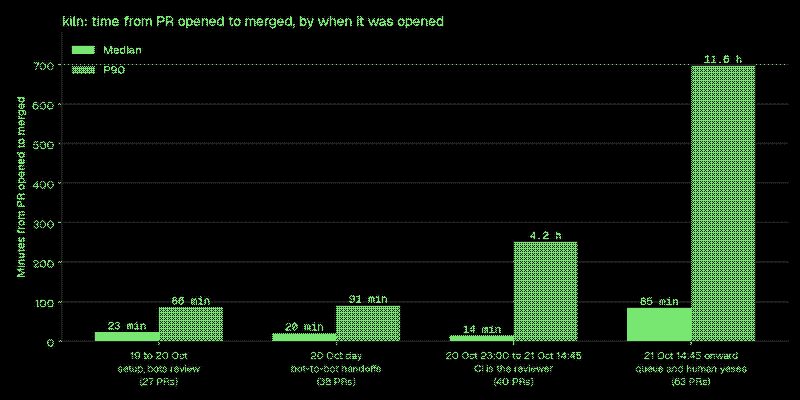
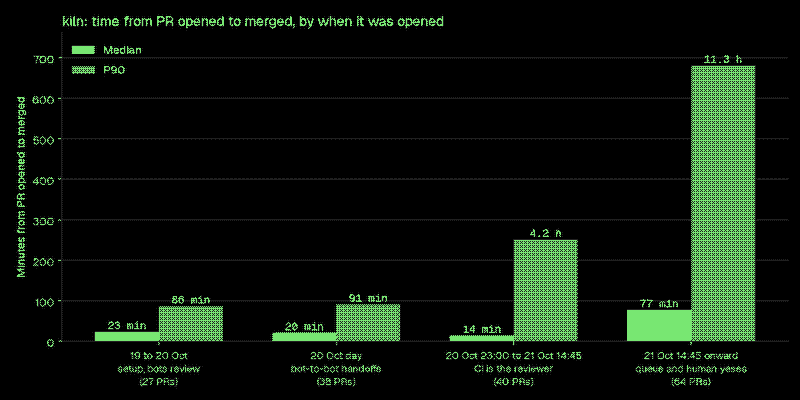
Add a day-by-day section on which way the kiln numbers are heading, and refresh stats

diff --git a/content/posts/dynamic-factories.md b/content/posts/dynamic-factories.md
@@ -12,7 +12,7 @@ Agents can already run most of a software factory. They write the code, open the
 
 Over the past few days I watched a factory start making those choices for itself. It added a specialist when it was missing a skill, retired one that had stopped earning its place, and rewrote its own pipeline from what it measured. I've started calling this a Dynamic Factory. I think it's where agentic factories are heading, and this post describes an early working example.
 
-The product it built is [Kiln](https://github.com/Jabbslad/kiln), a self-hosted tool that gives you lightweight Linux virtual machines (VMs) on your own server, ready to SSH into. In four days the factory merged 168 PRs and published 86 releases of it. Kiln is what came off the line. This post is about the line.
+The product it built is [Kiln](https://github.com/Jabbslad/kiln), a self-hosted tool that gives you lightweight Linux virtual machines (VMs) on your own server, ready to SSH into. In four days the factory merged 169 PRs and published 87 releases of it. Kiln is what came off the line. This post is about the line.
 
 ## Agentic software factories, and where they stop
 
@@ -118,7 +118,7 @@ A check that lives in a bot's head runs when the bot gets round to it. A check i
 
 Proof knew to try a change the way a user would. Kiln Ops knew to run the server's health check and start a throwaway VM after each deploy. Forge knew to ask for a new review after a push. All of that is code now. CI checks that only main and release builds can sign a release, that no secret is written straight into a script, and that every downloaded tool is checked against its checksum before it's used. It also refuses a release whose version label doesn't match the version in the code. poteto [reviews the videos and screenshots her agents record](https://x.com/poteto/status/2107529532144234937) rather than reading every diff, so any PR that changes the dashboard or the command-line tool now carries before and after screenshots from a script anyone can rerun.
 
-The guards came from mistakes. Once, a deploy ran without its SSH key. The deploy was a shared workflow that another workflow called, and GitHub only passes secrets on to a shared workflow when the caller asks, so the key arrived empty. The fix came with a CI check that fails any caller that forgets. In the 266 PR builds since the afternoon of 21 October, 91 went red before merge.
+The guards came from mistakes. Once, a deploy ran without its SSH key. The deploy was a shared workflow that another workflow called, and GitHub only passes secrets on to a shared workflow when the caller asks, so the key arrived empty. The fix came with a CI check that fails any caller that forgets. In the 267 PR builds since the afternoon of 21 October, 91 went red before merge.
 
 One test checked that CI refuses a release with the wrong version number. To get one, it downloaded a real old release from GitHub with no timeout, so a slow network could stall CI with no sign of which test was stuck. CI now stops any test that runs too long and names it, and a job that hangs still leaves its full log behind.
 
@@ -172,7 +172,7 @@ One release never got published, because the tool that checks its signatures fai
 
 A single total hides the cause. The factory breaks the time from open to live into stages, and one bot is responsible for the number.
 
-When Perfy first measured, it took the 46 PRs merged since every green merge started releasing itself. Merge to live took about 12 minutes at the median, which is fine. The surprise was before the merge. Green PRs waiting to be merged made up about 78% of all the time those PRs spent open. The total would never have shown that. A day later, across 75 PRs, the figure was 71%. The wait is still most of the time.
+When Perfy first measured, it took the 46 PRs merged since every green merge started releasing itself. Merge to live took about 12 minutes at the median, which is fine. The surprise was before the merge. Green PRs waiting to be merged made up about 78% of all the time those PRs spent open. The total would never have shown that. A day later, across 76 PRs, the figure was 71%. The wait is still most of the time.
 
 That measuring job is why Perfy exists. It keeps the stage breakdown current and agrees speed targets with Chief, so someone looks after the number every day rather than when I happen to check.
 
@@ -226,17 +226,35 @@ On 23 October the loop shipped six releases this way, each live and verified bet
 
 Kiln runs lightweight virtual machines on your own server, using Firecracker, the VM technology behind AWS Lambda. You ask for one and get SSH access, a web dashboard and sign-in, and Kiln's installer handles upgrades and rollbacks. Its output over four days, from the first PR at 12:58 on 19 October to the morning of 23 October, is the best evidence I have that the factory works:
 
-- 168 PRs merged, out of 176 opened.
-- 86 releases went out.
+- 169 PRs merged, out of 178 opened.
+- 87 releases went out.
 - Merge to live takes about 13 minutes at the median, since a green merge started releasing and deploying itself.
 - 15 PRs merged between midnight and 8am on 22 October, with nobody watching.
-- Open-to-merge time fell to a median of 14 minutes once CI became the reviewer, then rose to 85 minutes as the queue and my yeses became the bottleneck.
+- Open-to-merge time fell to a median of 14 minutes once CI became the reviewer, then rose to 77 minutes as the queue and my yeses became the bottleneck.
 
 ![PRs opened and merged per hour on Kiln, with release times marked](/images/grok-bot-agents-prs/prs-per-hour.png)
 
 ![Where the time goes from PR opened to live, by stage](/images/grok-bot-agents-prs/time-by-stage.png)
 
 ![Median and P90 open-to-merge time by phase](/images/grok-bot-agents-prs/open-to-merge-by-phase.png)
+
+## Which way the numbers are heading
+
+Read day by day, several of these numbers are heading the wrong way. Below is what's behind each one and what's being done about it. The last day, 23 October, only runs to late morning.
+
+![Kiln day by day: PRs merged, wait times, CI run time, red builds, fixes and failed deploys](/images/grok-bot-agents-prs/day-by-day.png)
+
+Some held or got better. Merge to live has stayed between 9 and 14 minutes a day since releases became automatic. Green PRs waiting to merge went from 78% of the time PRs spent open to 71%. Flaky failures stayed at about 0.2% of job runs. Fixes and reverts made up 20% and 29% of merged PRs on the first two days, and 10% or less on each day since.
+
+Three got worse.
+
+PR CI time went from about 3 minutes a run on the first two days to about 11 on 23 October. Each check added was worth having, but each one added minutes. Nobody is working on this yet.
+
+Open-to-merge time was under 25 minutes at the median on each of the first three days, then 120 minutes on 22 October and 234 on 23 October. The merge queue and my yeses became the bottleneck. Of the 12 PRs merged on 23 October, 7 were opened the day before and waited between 3 and 18 hours. The 5 opened that day merged in a median of 31 minutes. The chart further up groups PRs by when they were opened, which puts the latest phase at 77 minutes. Grouping by the day they merged gives the higher figures here, because a day's merges include everything that waited overnight. The fix is the slow lane for risky PRs, so routine work stops queuing behind them. Half of it has merged.
+
+About 11% of deploys since releases became automatic failed, 8 out of 70. Day by day that was 5 of 25, then 1 of 33, then 2 of 12, so it jumps about more than it trends. It's still too high. One release per batch comes next, which means fewer deploys and fewer chances to fail. After that, the deploy's final checks move onto a stand-in server in CI.
+
+One number looks bad and isn't. The share of PR builds that went red before merge rose from 9% on the first day to 37% on 22 October, then fell to 17%. A red build before merge is CI catching a problem before it reaches anyone.
 
 ## What it means for engineering leaders
 
